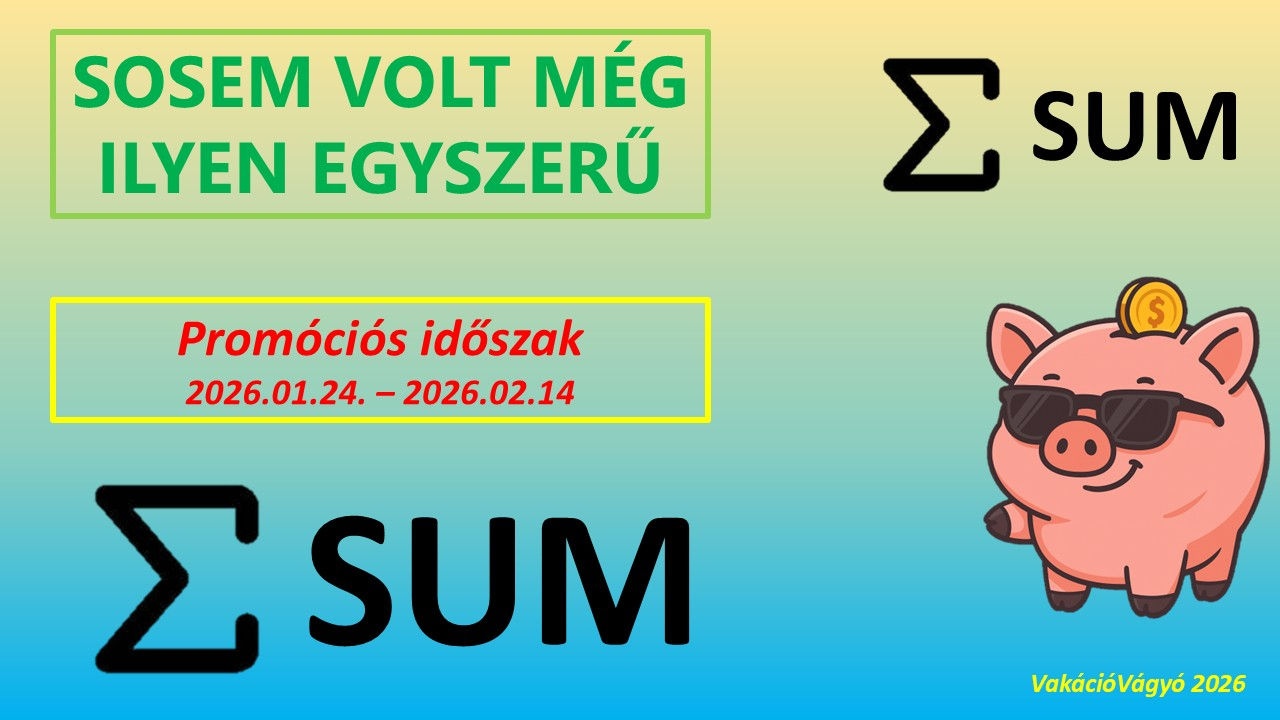
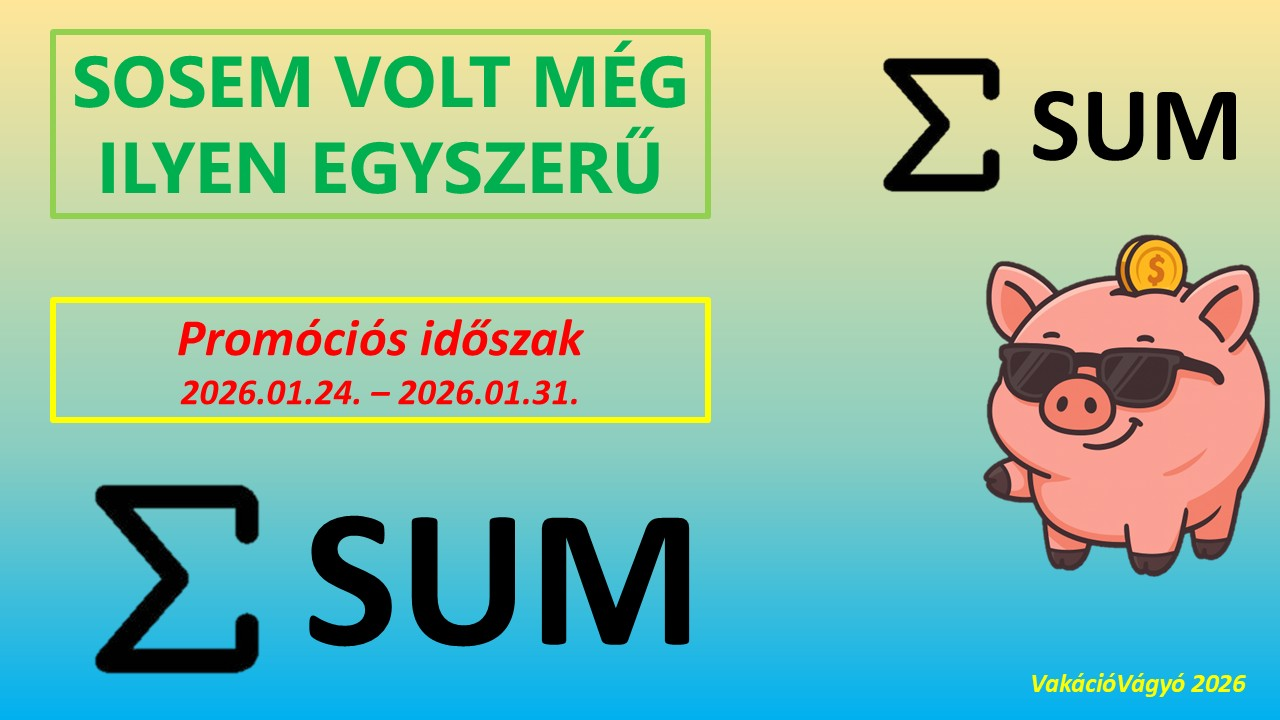
Add files via upload

Changed region(s): [[0.75, 0.3056, 1.0, 0.8556], [0.3125, 0.5194, 0.4688, 0.5806], [0.125, 0.5194, 0.2812, 0.5806]]

diff --git a/akciok.html b/akciok.html
@@ -254,19 +254,19 @@
     <br>
 
 
-    <!------
+    <!-----
     <article class="card">
       <img src="SUM.jpg" alt="Akció">
       <div class="card-body">
         <h3 class="card-title"> SOSEM VOLT MÉG ILYEN EGYSZERŰ </h3>
-        <p class="card-text"> <b>Promóciós időszak: <br> 2026. január 24. - 2026. február 14.</b></p>
-        <p> <b><i>Számold össze, hogy összesen: </i></b><br> - hány darab családi közös programunk van a <b>CSALÁDI PROGRAMJAINK </b>webalkalmazásunkban, <br> - hány darab befizetés szerepel a <b>VAKÁCIÓVÁGYÓ </b>rendszerében, <br> - és hány darab pipa szerepel a <b>SOK KICSI, SOKRA MEGY</b> című játék <b>TELJESÍTÉSI NAPLÓ</b> menüpontjában.<br><br> Ha megvan <b>A HELYES SZÁM</b> akkor jóváírunk a bónuszegyenlegeden <b>2500 - FT-OT!</b></p> 
-        <p><b><i>A játékszabályzatot <a href="https://drive.google.com/file/d/1PM0o7p9-iCrdJDLaRMPst45DQ_4u2ffR/view?usp=sharing">ide kattintva</a> éred el!</p></i></b>
+        <p class="card-text"> <b>Promóciós időszak: <br> 2026. január 24. - 2026. január 31.</b></p>
+        <p> <b><i>Számold össze, hogy összesen: </i></b><br> - hány darab családi közös programunk van a <b>CSALÁDI PROGRAMJAINK </b>webalkalmazásunkban, <br> - hány darab befizetés szerepel a <b>VAKÁCIÓVÁGYÓ </b>rendszerében, <br> - és hány darab pipa szerepel a <b>SOK KICSI, SOKRA MEGY</b> című játék <b>TELJESÍTÉSI NAPLÓ</b> menüpontjában.<br><br> Ha megvan <b>A HELYES SZÁM</b> akkor jóváírunk a bónuszegyenlegeden <b>2000 - FT-OT!</b></p> 
+        <p><b><i>A játékszabályzatot <a href="https://drive.google.com/file/d/1ujg2FfLklbDPON53rtw1npnnPh47eyBu/view?usp=sharing">ide kattintva</a> éred el!</p></i></b>
         <a href="https://forms.gle/uCs5SXVzRHc4Z6Ja9"><button>KÉSZ VAGYOK! BEKÜLDÖM A SZÁMOT!</button></a>
       </div>
     </article> <br>
 
------->
+-------->
       </main>
   <footer>
     <a href="archivakciok.html">

diff --git a/tovabbiak.html b/tovabbiak.html
@@ -386,8 +386,8 @@
    
       <a class="btn" href="https://drive.google.com/file/d/1eMWqspbH8X-EDkOsVq3L6e9eFSH4lZlM/view?usp=sharing"> RÖFI KERESŐ JÁTÉK<br></a>
   
-    <!----
-      <a class="btn" href="https://drive.google.com/file/d/1PM0o7p9-iCrdJDLaRMPst45DQ_4u2ffR/view?usp=sharing">SOSEM VOLT MÉG ILYEN EGYSZERŰ <br></a>
+    <!-----
+      <a class="btn" href="https://drive.google.com/file/d/1ujg2FfLklbDPON53rtw1npnnPh47eyBu/view?usp=sharing">SOSEM VOLT MÉG ILYEN EGYSZERŰ <br></a>
   ----->
     </div>
 
